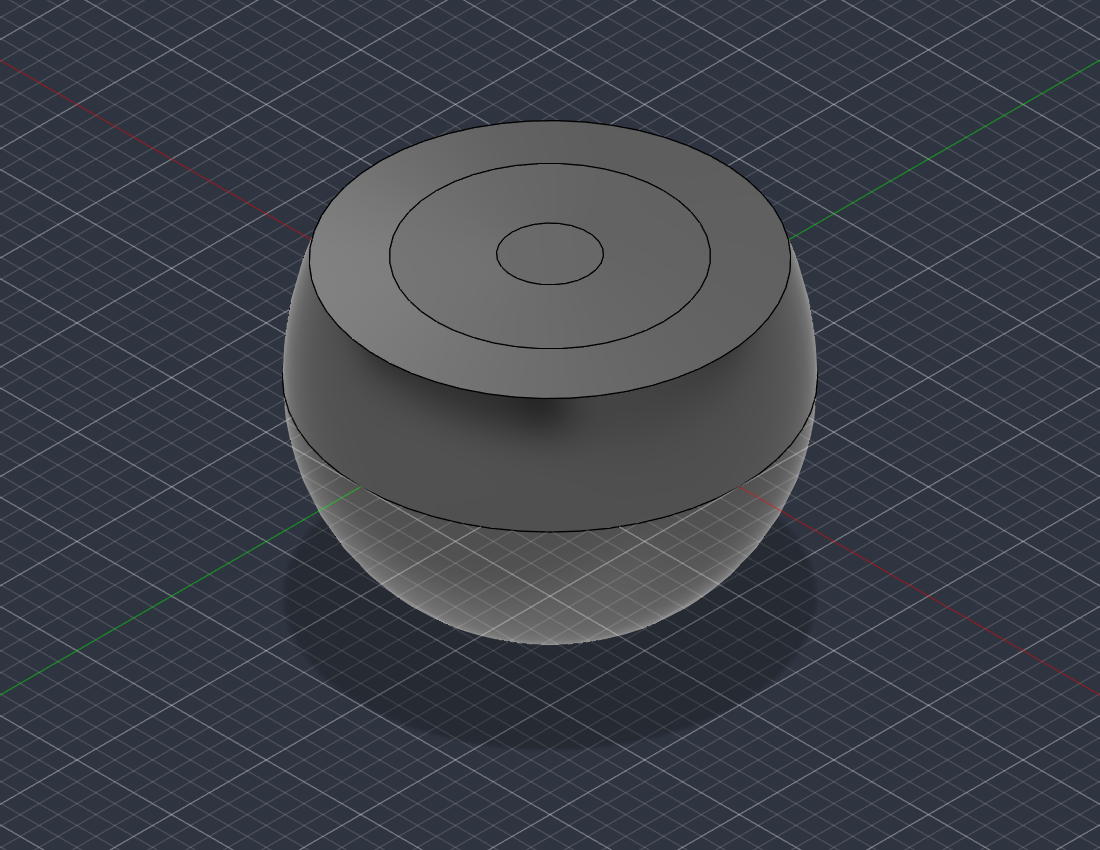
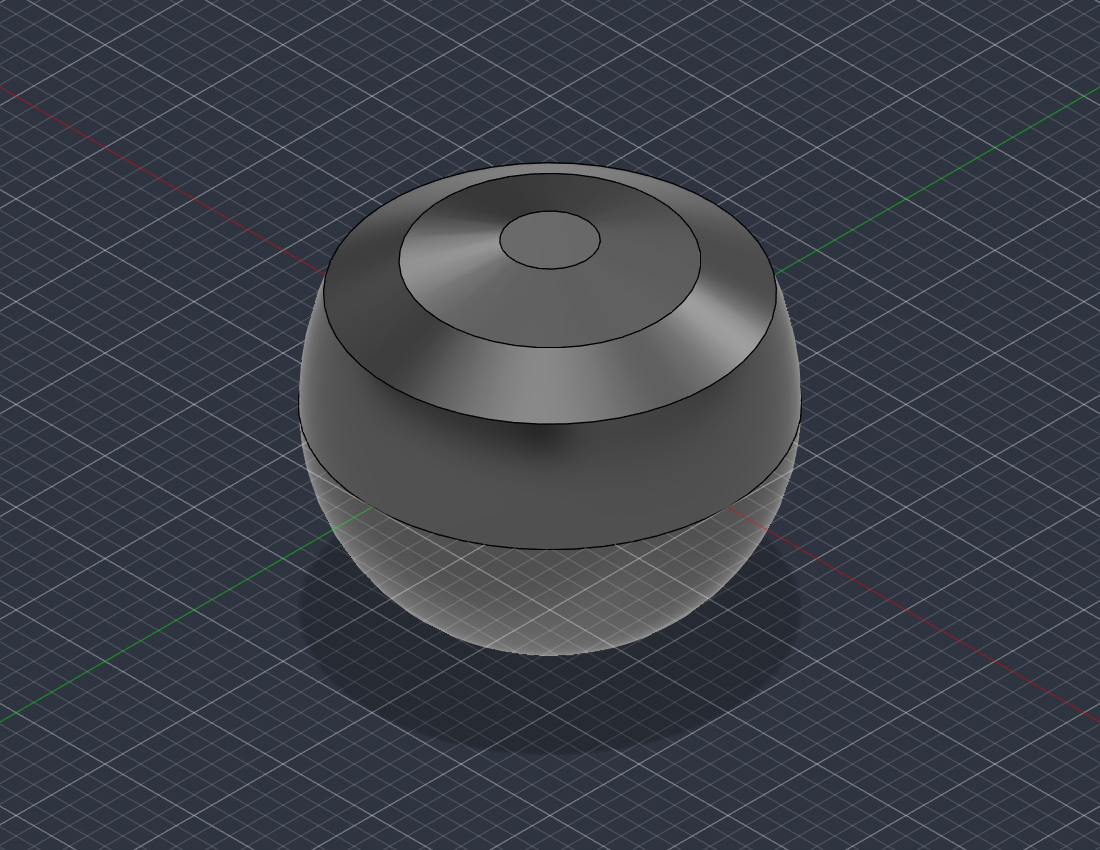
fix(tools): 相机前脸台阶改回 cm —— 补光灯 8mm、感应区 5mm
用户明确后两项也是 cm（0.8cm / 0.5cm），不是我按字面取的 mm。
改后总深 78.3 -> 90.0，体积 464.4 -> 502.8 cm3，形状也从"几乎平的鼻头"
变成照片里那种锥形前脸。

顺带删掉文档里那段错误的单位推理：我原先拿"按 mm 算总深 78.3 与厂商公布的
75.7 吻合"来反推单位，那个吻合是巧合，推理本身是错的。现在注释只保留用户
确认过的尺寸。

diff --git a/tools/fusion-bridge/examples/noorio_camera_body.py b/tools/fusion-bridge/examples/noorio_camera_body.py
@@ -8,13 +8,14 @@
     后半部分         半圆，直径 100，半径 50
     最尾部           Ø5 螺丝孔
     另一侧第一段     厚 27，按同等半圆收口，Ø100 -> Ø90
-    唤醒补光灯环     厚 0.8，Ø90 -> Ø60
-    感应区域         厚 0.5，Ø60 -> Ø20
+    唤醒补光灯环     厚 8，Ø90 -> Ø60
+    感应区域         厚 5，Ø60 -> Ø20
     最后             平的摄像头（镜头面）
 
-单位判断：用户两处写的是 "0.8mm / 0.5mm"，其余写 cm。按 mm 取时总深
-50 + 27 + 0.8 + 0.5 = 78.3，与厂商公布的整机高 75.7 吻合；若把它当 cm 则是
-90mm，差得太远。所以按 mm。
+⚠ 单位踩过一次：用户把后两项写成 "0.8mm / 0.5mm"，我按字面取成了 mm，
+结果前脸只有 1.3mm 的台阶、总深 78.3。用户随后明确是 **cm**（0.8cm / 0.5cm），
+即 8mm / 5mm，总深 90mm。别再用"和厂商公布的 75.7 对得上"来反推单位 ——
+那个巧合是错的。
 
 整体是一个绕 Z 轴的旋转体，所以用**一次 revolve** 做出来最干净。
 坐标：Z 为轴，前端朝 +Z，尾部在 -Z。
@@ -36,10 +37,10 @@ FRONT_ZONE_LEN = 27.0    # 前段等半圆收口长度
 FRONT_ZONE_R0 = 50.0     # 收口起点半径（赤道 Ø100）
 FRONT_ZONE_R1 = 45.0     # 收口终点半径（Ø90）
 
-FILL_LIGHT_LEN = 0.8     # 唤醒补光灯环轴向厚度
+FILL_LIGHT_LEN = 8.0     # 唤醒补光灯环轴向厚度（0.8cm）
 FILL_LIGHT_R = 30.0      # 该环内缘半径（Ø60）
 
-SENSOR_LEN = 0.5         # 感应区域轴向厚度
+SENSOR_LEN = 5.0         # 感应区域轴向厚度（0.5cm）
 SENSOR_R = 10.0          # 感应区内缘半径（Ø20）
 
 REAR_HOLE_D = 5.0        # 尾部螺丝孔
